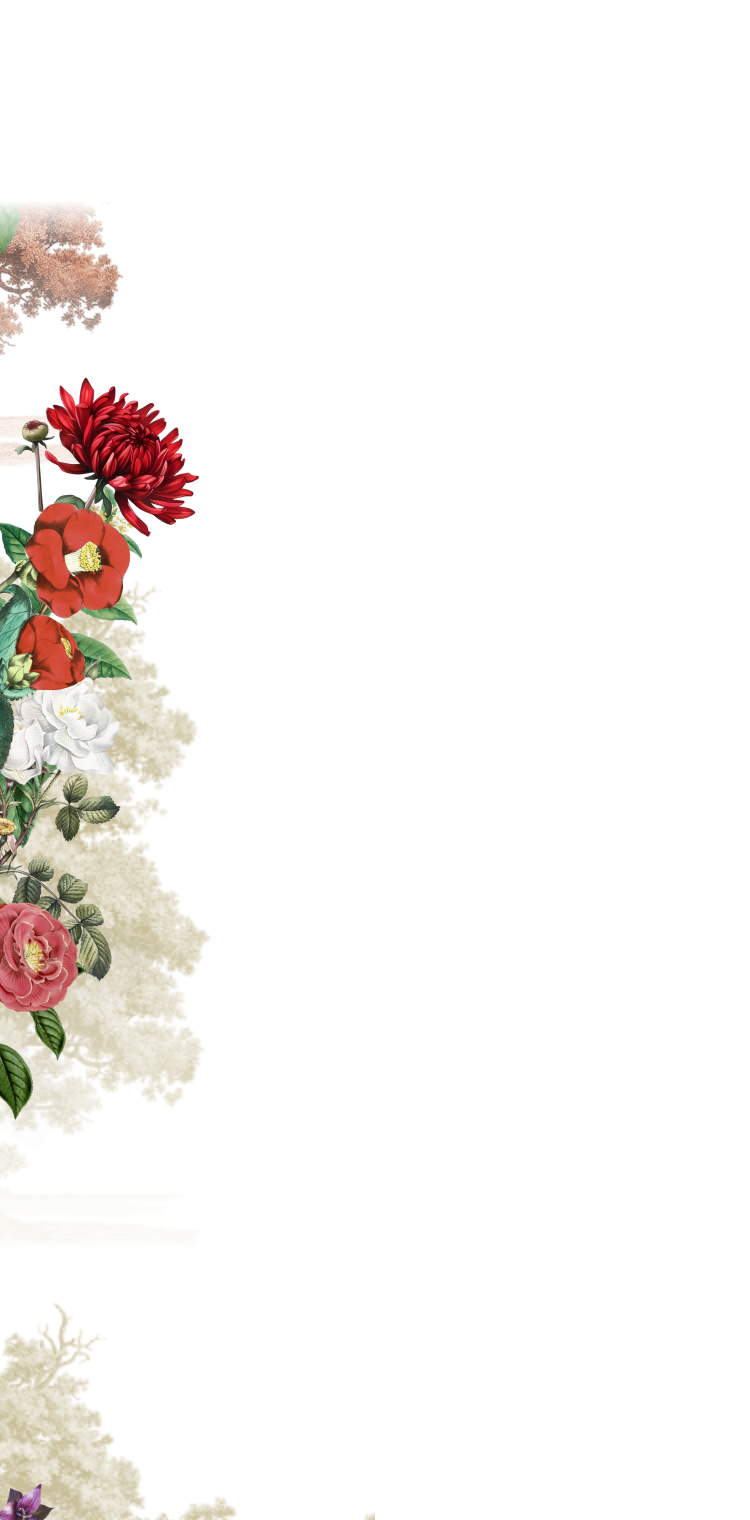
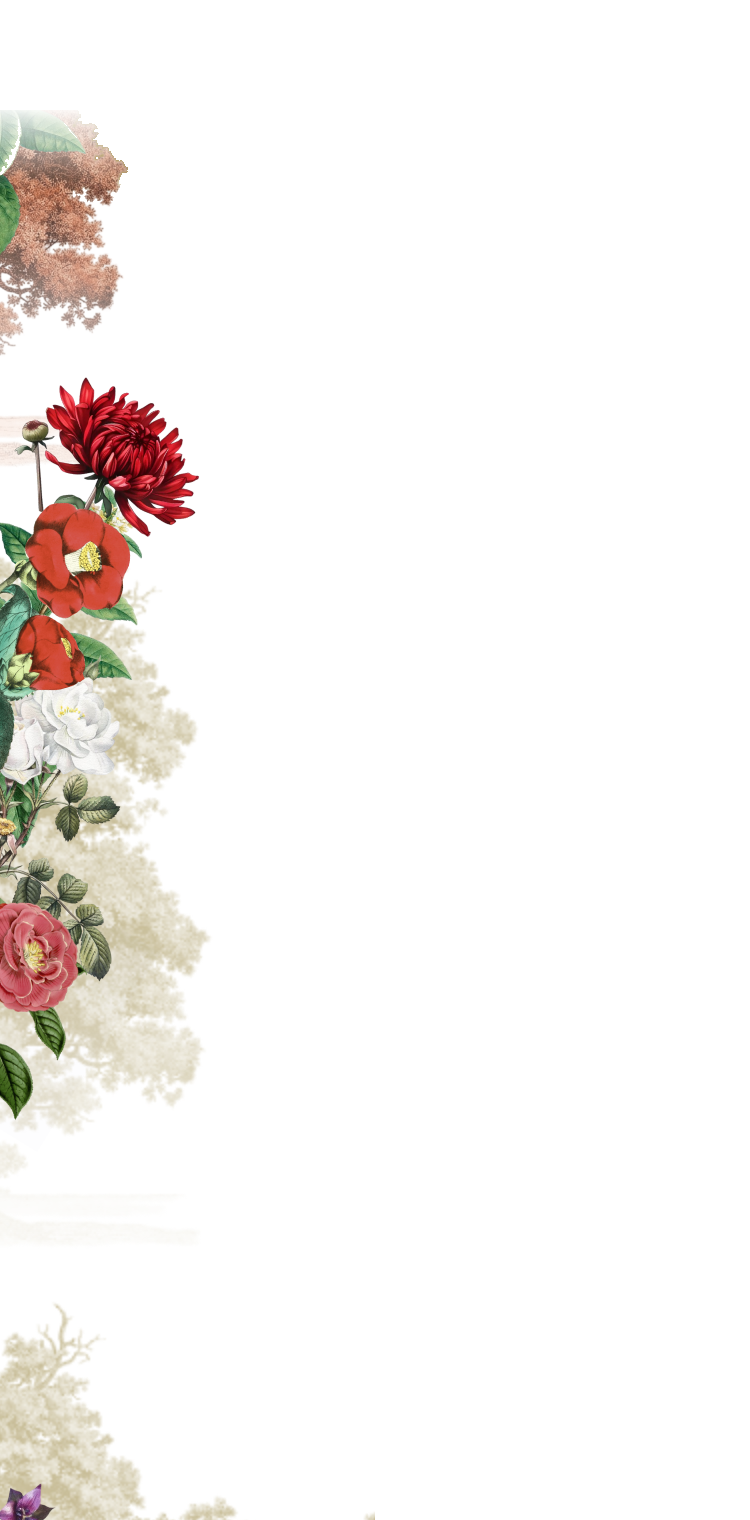
fix: uncut quote wax seal, quote/groom seam gap, restore save-date top florals

Changed region(s): [[0.0, 0.0618, 0.184, 0.1855]]

diff --git a/src/components/invite/QuoteSection.vue b/src/components/invite/QuoteSection.vue
@@ -24,7 +24,6 @@ const layers = [
   { src: ivyR, cls: "q-ivyR" },
   { src: mumL, cls: "q-mumL" },
   { src: mumR, cls: "q-mumR" },
-  { src: seal, cls: "q-seal" },
 ];
 
 const arabic =
@@ -44,6 +43,8 @@ const translation =
       alt=""
       aria-hidden="true"
     />
+    <!-- wax seal exported per-node (the band crop clipped its top) -->
+    <img class="q-seal" :src="seal" alt="" aria-hidden="true" />
 
     <div class="quote__text">
       <h2 class="q-title">QS Ar-Rum 21</h2>
@@ -64,18 +65,6 @@ const translation =
   background: linear-gradient(180deg, #ded7c2 0%, #cdb98f 16%, #b0975f 64%, #b5a279 100%);
   isolation: isolate;
   container-type: inline-size;
-}
-/* blend the painting's hard bottom edge into the gold that the groom section continues */
-.quote::after {
-  content: "";
-  position: absolute;
-  left: 0;
-  right: 0;
-  bottom: 0;
-  height: 15%;
-  z-index: 1;
-  background: linear-gradient(180deg, rgba(181, 162, 121, 0) 0%, #b5a279 78%);
-  pointer-events: none;
 }
 
 .quote__layer {
@@ -99,7 +88,19 @@ const translation =
 .q-div { z-index: 3; }
 .q-ivyL, .q-ivyR { z-index: 5; }
 .q-mumL, .q-mumR { z-index: 6; }
-.q-seal { z-index: 7; }
+/* per-node export, placed by its Figma bounds (x164 y772 47×47 in the rel700–1365 band) */
+.q-seal {
+  position: absolute;
+  z-index: 7;
+  left: 43.733%;
+  top: 10.827%;
+  width: 12.533%;
+  height: auto;
+  max-width: none;
+  opacity: 0;
+  pointer-events: none;
+  will-change: transform, opacity;
+}
 
 /* --- live text overlay, sits inside the oval --- */
 .quote__text {
@@ -166,6 +167,6 @@ const translation =
 @keyframes qSwayB { from { transform: rotate(0.8deg); } to { transform: rotate(-0.8deg); } }
 
 @media (prefers-reduced-motion: reduce) {
-  .quote__layer, .quote__text > * { animation: none !important; opacity: 1; transform: none; filter: none; }
+  .quote__layer, .q-seal, .quote__text > * { animation: none !important; opacity: 1; transform: none; filter: none; }
 }
 </style>
